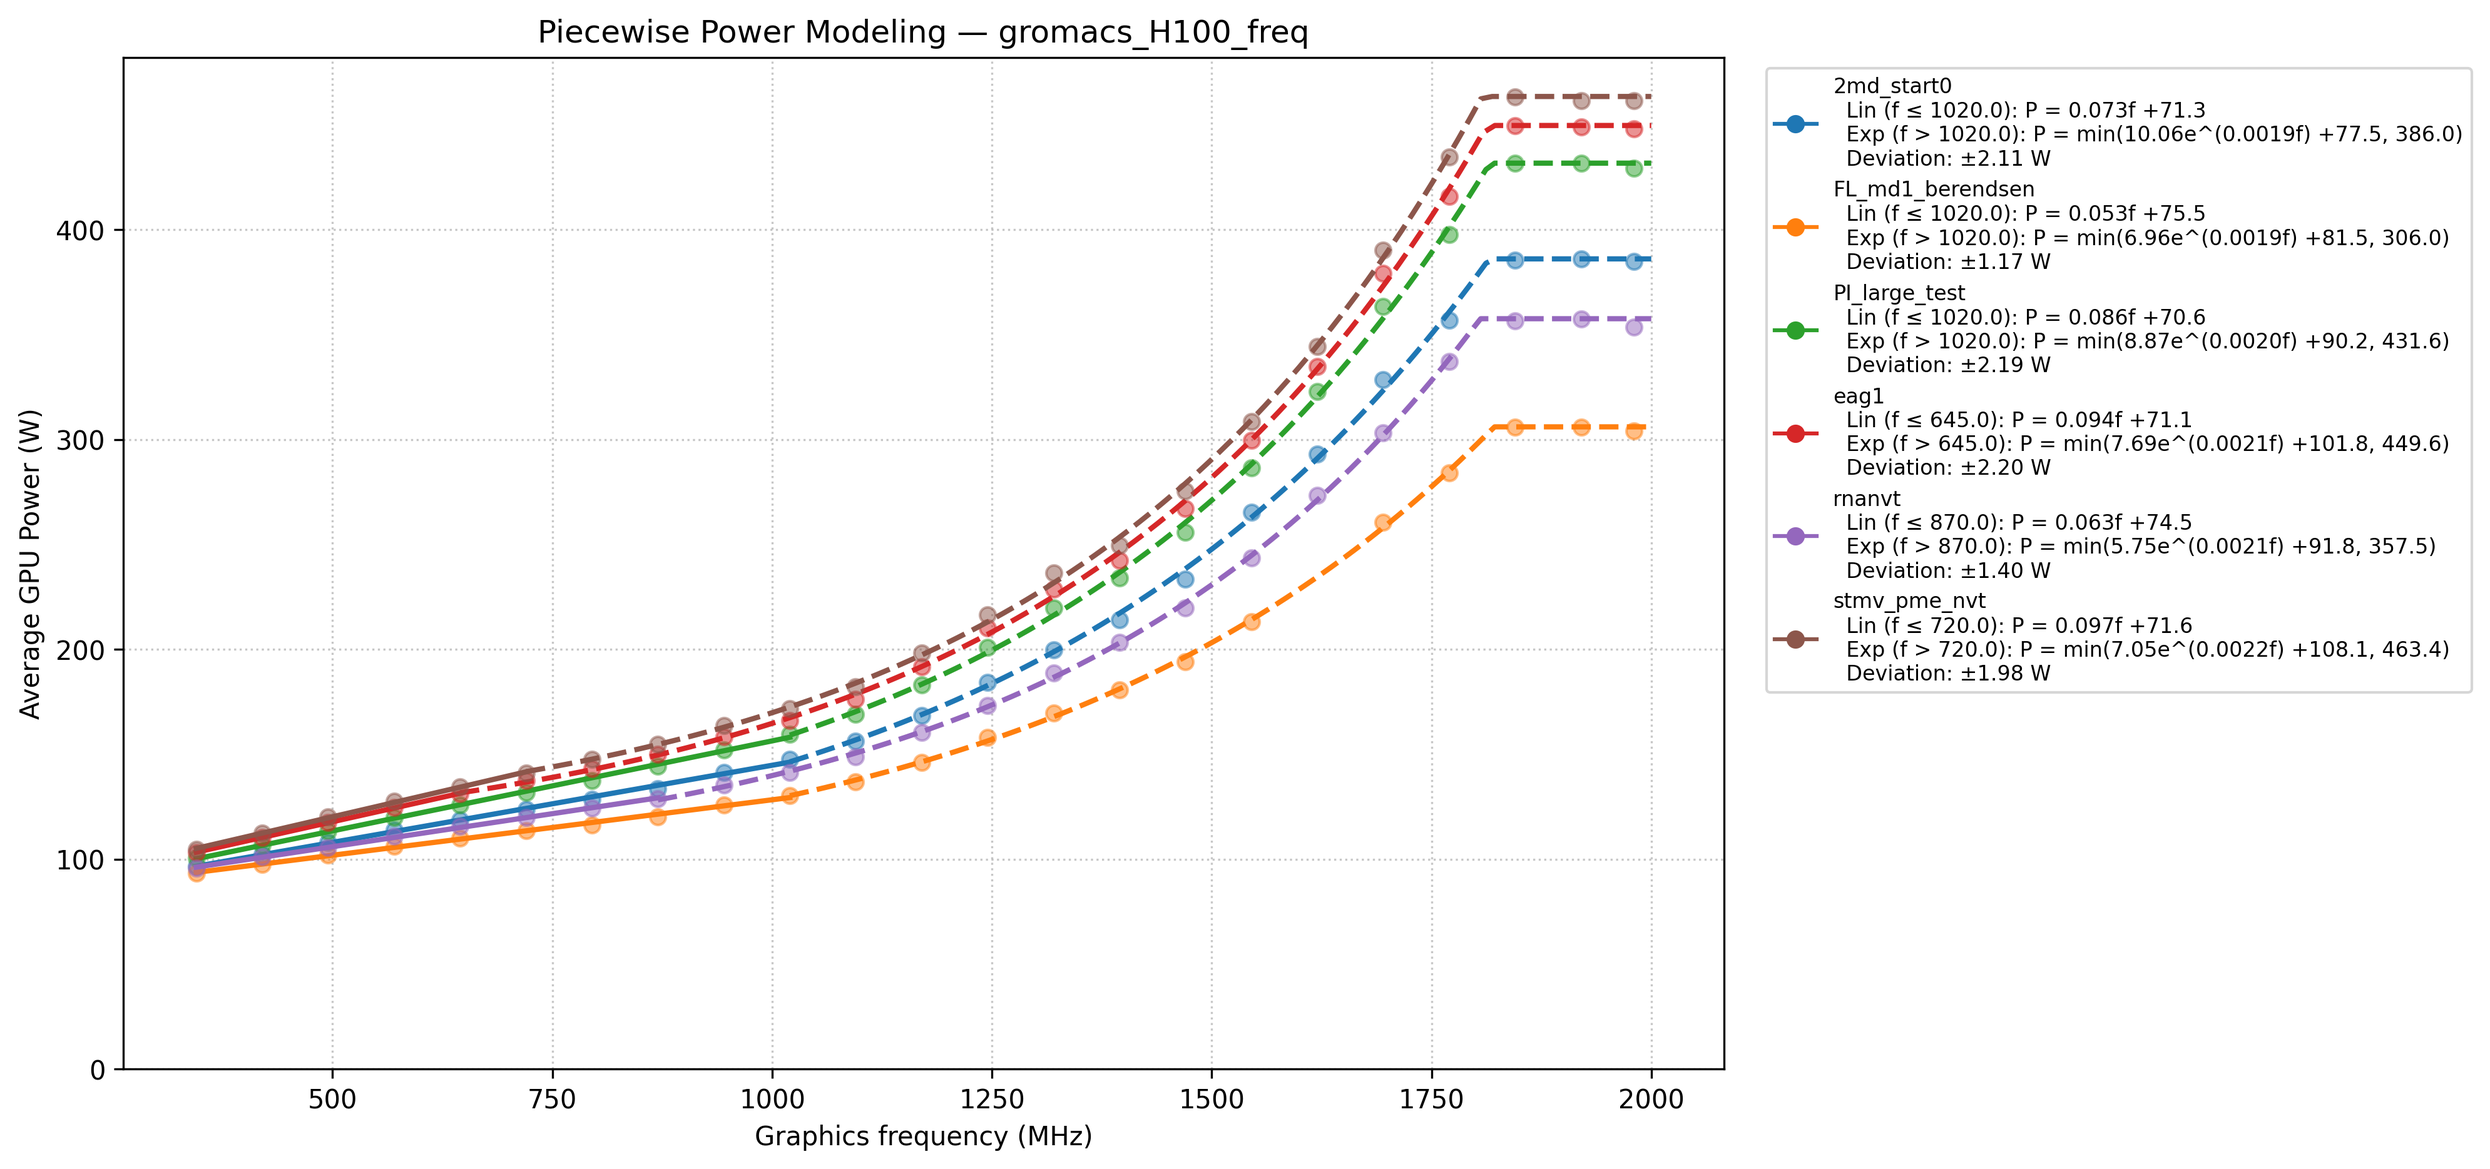
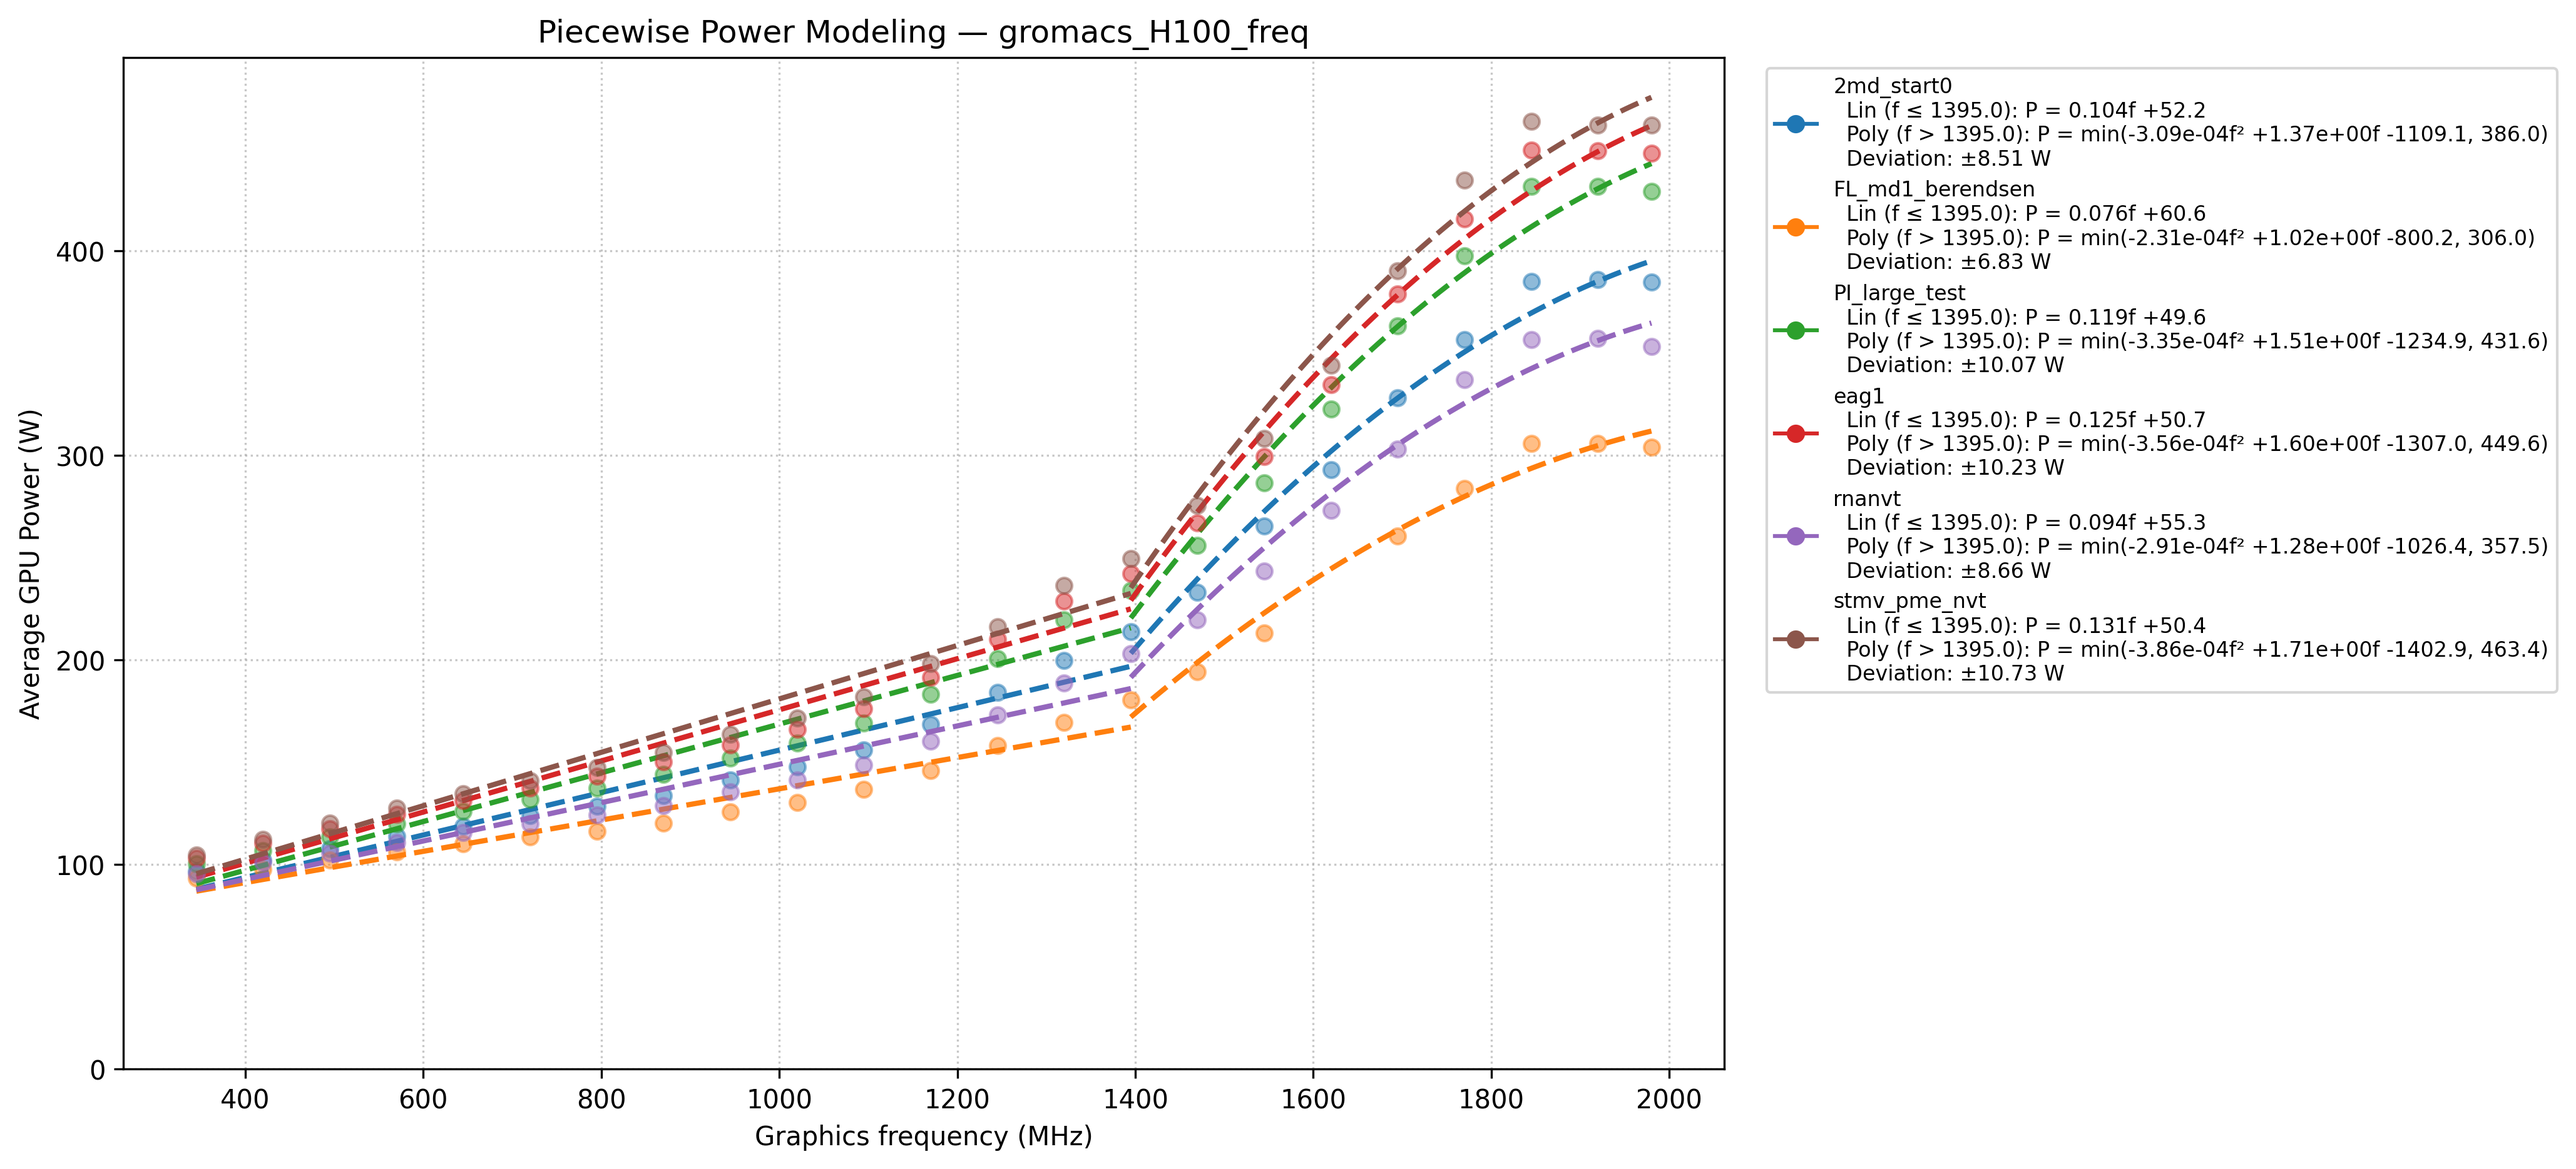
updated gromacs plot fitting

diff --git a/AMBER-script/amber-parser.py b/AMBER-script/amber-parser.py
@@ -429,57 +429,61 @@ if __name__ == "__main__":
                     def lin_model(x, m, c):
                         return m * x + c
                         
-                    def exp_capped_model(x, a, b, k):
-                        # Calculate the raw exponential growth
-                        raw_exp = a * np.exp(b * (x / 1000.0)) + k
+                    def poly_capped_model(x, a, b, c):
+                        # Calculate the raw quadratic polynomial growth
+                        raw_poly = a * (x**2) + b * x + c
                         # Cap the output at the hardware's maximum power limit
-                        return np.minimum(raw_exp, pwr_limit)
+                        return raw_poly
 
                     best_sse = float('inf')
                     best_split_idx = -1
-                    best_lin_popt, best_exp_popt = None, None
+                    best_lin_popt, best_poly_popt = None, None
                     
                     # Brute force search for the best inflection point
                     for i in range(3, len(x_data) - 2):
                         x_lin, y_lin = x_data[:i], y_data[:i]
-                        x_exp, y_exp = x_data[i-1:], y_data[i-1:] 
+                        x_poly, y_poly = x_data[i-1:], y_data[i-1:] 
                         
                         try:
                             lin_popt, _ = curve_fit(lin_model, x_lin, y_lin)
                             sse_lin = np.sum((y_lin - lin_model(x_lin, *lin_popt))**2)
                             
-                            exp_popt, _ = curve_fit(exp_capped_model, x_exp, y_exp, p0=[10, 1.0, min(y_exp)], maxfev=5000)
-                            sse_exp = np.sum((y_exp - exp_capped_model(x_exp, *exp_popt))**2)
+                            # Polynomial initial guesses: a (tiny), b (small), c (baseline power)
+                            poly_popt, _ = curve_fit(poly_capped_model, x_poly, y_poly, p0=[1e-5, 1e-2, min(y_poly)], maxfev=5000)
+                            sse_poly = np.sum((y_poly - poly_capped_model(x_poly, *poly_popt))**2)
                             
-                            if sse_lin + sse_exp < best_sse:
-                                best_sse = sse_lin + sse_exp
+                            if sse_lin + sse_poly < best_sse:
+                                best_sse = sse_lin + sse_poly
                                 best_split_idx = i
                                 best_lin_popt = lin_popt
-                                best_exp_popt = exp_popt
+                                best_poly_popt = poly_popt
                         except RuntimeError:
-                            continue 
+                            continue
 
                     if best_split_idx != -1:
                         split_freq = x_data[best_split_idx - 1]
-                        m, c = best_lin_popt
-                        a, b, k = best_exp_popt
+                        
+                        # Extract the optimized mathematical parameters
+                        m, intercept = best_lin_popt
+                        a, b, c = best_poly_popt
                         
                         x_smooth_lin = np.linspace(x_data.min(), split_freq, 50)
-                        # Extrapolate slightly past the max frequency (1.05x) to clearly visualize the flatline saturation
-                        x_smooth_exp = np.linspace(split_freq, x_data.max() * 1.01, 100)
+                        x_smooth_poly = np.linspace(split_freq, x_data.max(), 100)
                         
-                        plt.plot(x_smooth_lin, lin_model(x_smooth_lin, *best_lin_popt), linestyle="-", color=color, linewidth=2)
-                        plt.plot(x_smooth_exp, exp_capped_model(x_smooth_exp, *best_exp_popt), linestyle="--", color=color, linewidth=2)
+                        # Plot the solid linear line and dashed polynomial line
+                        plt.plot(x_smooth_lin, lin_model(x_smooth_lin, *best_lin_popt), linestyle="--", color=color, linewidth=2)
+                        plt.plot(x_smooth_poly, poly_capped_model(x_smooth_poly, *best_poly_popt), linestyle="--", color=color, linewidth=2)
                         
                         # Calculate Deviation (RMSE)
                         rmse = np.sqrt(best_sse / len(x_data))
                         
                         # Format the equations to clearly show the min() limit
-                        lin_eq = f"Lin (f \u2264 {split_freq}): P = {m:.3f}f {c:+.1f}"
-                        exp_eq = f"Exp (f > {split_freq}): P = min({a:.2f}e^({(b/1000.0):.4f}f) {k:+.1f}, {pwr_limit:.1f})"
+                        # We use scientific notation (.2e) for a and b because they are usually very small decimals
+                        lin_eq = f"Lin (f \u2264 {split_freq}): P = {m:.3f}f {intercept:+.1f}"
+                        poly_eq = f"Poly (f > {split_freq}): P = min({a:.2e}f\u00b2 {b:+.2e}f {c:+.1f}, {pwr_limit:.1f})"
                         err_text = f"Deviation: \u00B1{rmse:.2f} W"
                         
-                        label_text = f"{bench}\n  {lin_eq}\n  {exp_eq}\n  {err_text}"
+                        label_text = f"{bench}\n  {lin_eq}\n  {poly_eq}\n  {err_text}"
                         custom_handles.append(Line2D([0], [0], color=color, linestyle="-", marker="o", label=label_text))
                     else:
                         print(f" -> Warning: Piecewise fit failed to converge for {bench}")

diff --git a/GROMACS-scrips/gromacs_parser.py b/GROMACS-scrips/gromacs_parser.py
@@ -399,57 +399,61 @@ if __name__ == "__main__":
                     def lin_model(x, m, c):
                         return m * x + c
                         
-                    def exp_capped_model(x, a, b, k):
-                        # Calculate the raw exponential growth
-                        raw_exp = a * np.exp(b * (x / 1000.0)) + k
+                    def poly_capped_model(x, a, b, c):
+                        # Calculate the raw quadratic polynomial growth
+                        raw_poly = a * (x**2) + b * x + c
                         # Cap the output at the hardware's maximum power limit
-                        return np.minimum(raw_exp, pwr_limit)
+                        return raw_poly
 
                     best_sse = float('inf')
                     best_split_idx = -1
-                    best_lin_popt, best_exp_popt = None, None
+                    best_lin_popt, best_poly_popt = None, None
                     
                     # Brute force search for the best inflection point
                     for i in range(3, len(x_data) - 2):
                         x_lin, y_lin = x_data[:i], y_data[:i]
-                        x_exp, y_exp = x_data[i-1:], y_data[i-1:] 
+                        x_poly, y_poly = x_data[i-1:], y_data[i-1:] 
                         
                         try:
                             lin_popt, _ = curve_fit(lin_model, x_lin, y_lin)
                             sse_lin = np.sum((y_lin - lin_model(x_lin, *lin_popt))**2)
                             
-                            exp_popt, _ = curve_fit(exp_capped_model, x_exp, y_exp, p0=[10, 1.0, min(y_exp)], maxfev=5000)
-                            sse_exp = np.sum((y_exp - exp_capped_model(x_exp, *exp_popt))**2)
+                            # Polynomial initial guesses: a (tiny), b (small), c (baseline power)
+                            poly_popt, _ = curve_fit(poly_capped_model, x_poly, y_poly, p0=[1e-5, 1e-2, min(y_poly)], maxfev=5000)
+                            sse_poly = np.sum((y_poly - poly_capped_model(x_poly, *poly_popt))**2)
                             
-                            if sse_lin + sse_exp < best_sse:
-                                best_sse = sse_lin + sse_exp
+                            if sse_lin + sse_poly < best_sse:
+                                best_sse = sse_lin + sse_poly
                                 best_split_idx = i
                                 best_lin_popt = lin_popt
-                                best_exp_popt = exp_popt
+                                best_poly_popt = poly_popt
                         except RuntimeError:
-                            continue 
+                            continue
 
                     if best_split_idx != -1:
                         split_freq = x_data[best_split_idx - 1]
-                        m, c = best_lin_popt
-                        a, b, k = best_exp_popt
+                        
+                        # Extract the optimized mathematical parameters
+                        m, intercept = best_lin_popt
+                        a, b, c = best_poly_popt
                         
                         x_smooth_lin = np.linspace(x_data.min(), split_freq, 50)
-                        # Extrapolate slightly past the max frequency (1.05x) to clearly visualize the flatline saturation
-                        x_smooth_exp = np.linspace(split_freq, x_data.max() * 1.01, 100)
+                        x_smooth_poly = np.linspace(split_freq, x_data.max(), 100)
                         
-                        plt.plot(x_smooth_lin, lin_model(x_smooth_lin, *best_lin_popt), linestyle="-", color=color, linewidth=2)
-                        plt.plot(x_smooth_exp, exp_capped_model(x_smooth_exp, *best_exp_popt), linestyle="--", color=color, linewidth=2)
+                        # Plot the solid linear line and dashed polynomial line
+                        plt.plot(x_smooth_lin, lin_model(x_smooth_lin, *best_lin_popt), linestyle="--", color=color, linewidth=2)
+                        plt.plot(x_smooth_poly, poly_capped_model(x_smooth_poly, *best_poly_popt), linestyle="--", color=color, linewidth=2)
                         
                         # Calculate Deviation (RMSE)
                         rmse = np.sqrt(best_sse / len(x_data))
                         
                         # Format the equations to clearly show the min() limit
-                        lin_eq = f"Lin (f \u2264 {split_freq}): P = {m:.3f}f {c:+.1f}"
-                        exp_eq = f"Exp (f > {split_freq}): P = min({a:.2f}e^({(b/1000.0):.4f}f) {k:+.1f}, {pwr_limit:.1f})"
+                        # We use scientific notation (.2e) for a and b because they are usually very small decimals
+                        lin_eq = f"Lin (f \u2264 {split_freq}): P = {m:.3f}f {intercept:+.1f}"
+                        poly_eq = f"Poly (f > {split_freq}): P = min({a:.2e}f\u00b2 {b:+.2e}f {c:+.1f}, {pwr_limit:.1f})"
                         err_text = f"Deviation: \u00B1{rmse:.2f} W"
                         
-                        label_text = f"{bench}\n  {lin_eq}\n  {exp_eq}\n  {err_text}"
+                        label_text = f"{bench}\n  {lin_eq}\n  {poly_eq}\n  {err_text}"
                         custom_handles.append(Line2D([0], [0], color=color, linestyle="-", marker="o", label=label_text))
                     else:
                         print(f" -> Warning: Piecewise fit failed to converge for {bench}")
